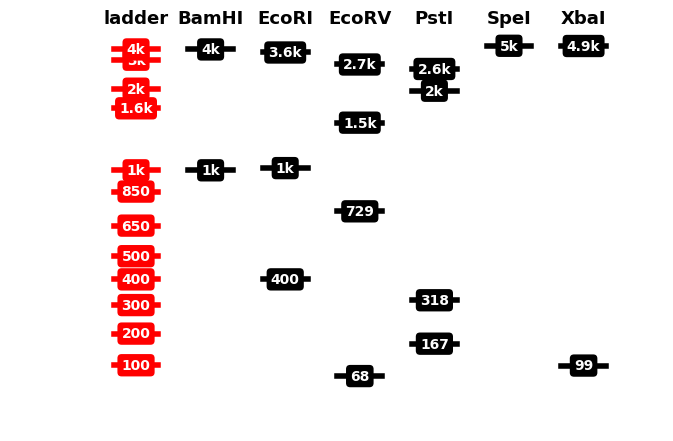
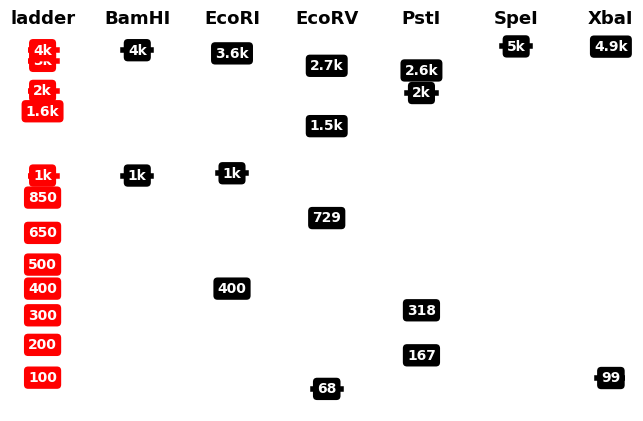
Added tools section

diff --git a/gelsimulator/gel_simulator.py b/gelsimulator/gel_simulator.py
@@ -1,36 +1,5 @@
-from Bio import Restriction
-from Bio.Seq import Seq
-import matplotlib.pyplot as plt
-from scipy.optimize import curve_fit
 import numpy as np
-
-
-def compute_digestion_bands(sequence, enzymes, linear=True):
-    """Return the band sizes [75, 2101, ...] resulting from enzymatic digestion
-
-    Parameters
-    ----------
-
-    sequence
-      Sequence to be digested. Either a string ("ATGC...") or a BioPython `Seq`
-
-    enzymes
-      list of all enzymes placed at the same time in the digestion mix
-      e.g. `["EcoRI", "BamHI"]`
-
-    linear
-      True if the DNA fragment is linearized, False if it is circular
-    """
-    if not isinstance(sequence, Seq):
-        sequence = Seq(sequence)
-    batch = Restriction.RestrictionBatch(enzymes)
-    cut_sites = batch.search(sequence, linear=linear)
-    cut_sites = [0] + sorted(sum(cut_sites.values(), [])) + [len(sequence)]
-    bands_sizes = [end - start for (start, end)
-                   in zip(cut_sites, cut_sites[1:])]
-    if not linear:
-        bands_sizes[0] += bands_sizes.pop()
-    return sorted(bands_sizes)
+from .tools import compute_digestion_bands
 
 
 class GelSimulator:
@@ -43,6 +12,11 @@ class GelSimulator:
     overwritten, leaving you complete freedom to change the way the bands
     and the texts are rendered, simply by sub-classing GelSimulator with
     overwritten methods.
+
+    Parameters
+    ----------
+
+    ladder
 
     Examples
     --------
@@ -67,11 +41,13 @@ class GelSimulator:
 
     def format_ax(self, ax):
         """Preformat the Matplotlib ax: remove the frame, set y-span."""
-        ax.axis("off")
-        y1, y2 = self.ladder.migration_distances_span
+        ax.set_frame_on(False)
+        ax.set_yticks([])
+        ax.set_xticks([])
+        y1, y2 = self.ladder.migration_distances_span()
         ax.set_ylim(-1.1 * y2, 0.1 * y2)
 
-    def format_fragment_size_label(self, band_size):
+    def format_band_size_label(self, band_size):
         """Prettify the fragment size label, e.g. '13278' becomes '13.3k'"""
         if band_size >= 1000:
             kilobases = np.round(band_size / 1000.0, 1)
@@ -80,80 +56,155 @@ class GelSimulator:
         else:
             return "%d" % band_size
 
-    def plot_band_rectangle(self, ax, fragment_size, x_coord, color="k"):
+    def plot_band_rectangle(self, ax, band_size, x_coord, color="k",
+                            width=0.6, band_thickness=4):
         """Plot one band (without label) on the matplotlib ax.
 
         At the moment it just draws a thick horizontal line at the specified
-        location
-        """
-        distance = self.ladder.compute_migration_distance(fragment_size)
-        # patch = FancyBboxPatch([x_coord-0.4, -distance-0.2)
-        ax.plot([x_coord - 0.3, x_coord + 0.3], [-distance, -distance],
-                lw=4, c=color)
+        location.
 
-    def plot_band_size_label(self, ax, fragment_size, x_coord, color="k"):
+        Parameters
+        ----------
+
+        ax
+          A matplotlib ax object
+
+        band_size
+          The size in basepairs of the DNA forming the band
+
+        x_coord
+          The x coordinate at which the pattern will be drawn.
+
+        color
+          Color of the band (can be any matplotlib-compatible color name)
+
+        width
+
+        band_thickness
+          Thickness of the band in pixels. Beware that this means the band will
+          have the same thickness undepending on the size
+
+        """
+        distance = self.ladder.compute_migration_distance(band_size)
+        # patch = FancyBboxPatch([x_coord-0.4, -distance-0.2)
+        ax.plot([x_coord - width/2.0, x_coord + width/2.0],
+                [-distance, -distance],
+                lw=band_thickness, c=color)
+
+    def plot_band_size_label(self, ax, band_size, x_coord,
+                             bg_color="black", label_fontdict=None):
         """Plot the band's label on the matplotlib ax.
 
-        The label is meant to go over the result of `plot_band_rectangle`
+        The label is meant to go over the result of `plot_band_rectangle`.
+
+        Parameters
+        ----------
+
+        ax
+
+        band_size
+          Size in basepairs of the DNA forming the band
+
+        x_coord
+          x coordinate at which to the band is.
+
+        label_fontdict
+          A Matplotlib fontdict, e.g. {"color": "red", "size": 10}, to
+          overwrite the label text defaults (white bold font)
+
+        bg_color
+          Color of the label's background
+
         """
-        size_label = self.format_fragment_size_label(fragment_size)
-        distance = self.ladder.compute_migration_distance(fragment_size)
+        size_label = self.format_band_size_label(band_size)
+        distance = self.ladder.compute_migration_distance(band_size)
+        fontdict = {"color": 'white', 'family': 'sans-serif',
+                    "weight": "bold", "size": 10}
+        if label_fontdict is not None:
+            fontdict.update(label_fontdict)
         ax.text(
             x_coord, -distance, size_label,
             horizontalalignment="center",
             verticalalignment="center",
-            fontdict={"color": "white",
-                      'family': 'sans-serif', "weight": "bold"},
-            fontsize=10,
+            fontdict=fontdict,
             transform=ax.transData,
-            bbox=dict(boxstyle="round", fc=color, lw=0)
+            bbox=dict(boxstyle="round", fc=bg_color, lw=0)
         )
 
-    def plot_band(self, ax, fragment_size, x_coord, color="k",
-                  with_size_label=True):
+    def plot_band(self, ax, band_size, x_coord, color="k",
+                  width=0.3, with_size_labels=True, band_thickness=4,
+                  label_fontdict=None):
         """Plot a band (horizontal line and size label) at the given location
         """
-        self.plot_band_rectangle(ax, fragment_size, x_coord, color=color)
-        if with_size_label:
-            self.plot_band_size_label(ax, fragment_size, x_coord, color=color)
+        self.plot_band_rectangle(ax, band_size, x_coord, color=color,
+                                 width=width, band_thickness=band_thickness)
+        if with_size_labels:
+            self.plot_band_size_label(ax, band_size, x_coord, bg_color=color,
+                                      label_fontdict=label_fontdict)
 
-    def plot_band_pattern_label(self, ax, label, x_coord):
+    def plot_horizontal_line(self, ax, band_size, xmin=0, xmax=1,
+                             color="k", linewidth=1, linestyle="-", **kw):
+        """Plot a horizontal line accross the ax at the given band size.
+
+        Useful for comparing a series of band patterns with some expected
+        band lengths.
+        """
+        y = -self.ladder.compute_migration_distance(band_size)
+        ax.axhline(y, xmin=xmin, xmax=xmax, color=color, linewidth=linewidth,
+                   linestyle=linestyle, **kw)
+
+    def plot_band_pattern_label(self, ax, label, x_coord, tilt_angle=0):
         """Write the label at the top of a band pattern
         """
         ax.text(
-            x_coord, 0.05 * self.ladder.migration_distances_span[1], label,
+            x_coord, 0.05 * self.ladder.migration_distances_span()[1], label,
             horizontalalignment="center",
             verticalalignment="bottom",
             fontdict={"color": "black",
                       'family': 'sans-serif', "weight": "bold"},
             fontsize=13,
+            rotation=tilt_angle,
             transform=ax.transData,
         )
 
+    def color_band_zone(self, ax, x_coord, width=0.3, facecolor=None,
+                        edgecolor="black", linewidth=0.5):
+        ymax = self.ladder.migration_distances_span()[1]
+        ax.fill_between([x_coord-width, x_coord+width], [-ymax, -ymax],
+                        facecolor=facecolor, edgecolor=edgecolor,
+                        linewidth=linewidth)
+
     def plot_bands_pattern(self, ax, bands, label=None, x_coord=1,
-                           color="k"):
+                           color="black", with_size_labels=True, width=0.3,
+                           band_thickness=4, label_tilt_angle=0):
 
         """Plot all bands in a same column and add a label for the pattern
         """
         for band in bands:
-            self.plot_band(ax=ax, fragment_size=band, x_coord=x_coord,
-                           color=color)
+            self.plot_band(ax=ax, band_size=band, x_coord=x_coord,
+                           color=color, with_size_labels=with_size_labels,
+                           width=width, band_thickness=band_thickness)
+
         if label is not None:
-            self.plot_band_pattern_label(ax, label=label, x_coord=x_coord)
+            self.plot_band_pattern_label(ax, label=label, x_coord=x_coord,
+                                         tilt_angle=label_tilt_angle)
 
 
 
-    def plot_ladder(self, ax, label="ladder", x_coord=1, color="r"):
+    def plot_ladder(self, ax, label="ladder", x_coord=1, color="r",
+                    label_tilt_angle=0, with_size_labels=True):
         """Plot this simulator's ladder on a Matplotlib ax.
 
         (usually the first thing you want to plot)
         """
         bands = sorted(self.ladder.bands.keys())
         self.plot_bands_pattern(ax, bands, label=label, x_coord=x_coord,
-                                color=color)
+                                color=color, with_size_labels=with_size_labels,
+                                label_tilt_angle=label_tilt_angle)
 
     def plot_digestion_result(self, ax, sequence, enzymes, linear=True,
-                              label=None, x_coord=1, color="k"):
+                              label=None, x_coord=1, color="k",
+                              with_size_labels=True, label_tilt_angle=0):
         """ Plot the resulting band pattern of a digestion on a Matplotlib ax
 
         Parameters
@@ -185,4 +236,5 @@ class GelSimulator:
         """
         bands = compute_digestion_bands(sequence, enzymes, linear=linear)
         self.plot_bands_pattern(ax, bands, label=label, x_coord=x_coord,
-                                color=color)
+                                color=color, with_size_labels=with_size_labels,
+                                label_tilt_angle=label_tilt_angle)

diff --git a/gelsimulator/tools.py b/gelsimulator/tools.py
@@ -1,0 +1,61 @@
+"""Basic useful functions for computing bands and comparing patterns."""
+
+from Bio.Seq import Seq
+from Bio import Restriction
+
+def compute_digestion_bands(sequence, enzymes, linear=True):
+    """Return the band sizes [75, 2101, ...] resulting from enzymatic digestion
+
+    Parameters
+    ----------
+
+    sequence
+      Sequence to be digested. Either a string ("ATGC...") or a BioPython `Seq`
+
+    enzymes
+      list of all enzymes placed at the same time in the digestion mix
+      e.g. `["EcoRI", "BamHI"]`
+
+    linear
+      True if the DNA fragment is linearized, False if it is circular
+    """
+    if not isinstance(sequence, Seq):
+        sequence = Seq(sequence)
+
+
+    batch = Restriction.RestrictionBatch(enzymes)
+    cut_sites = batch.search(sequence, linear=linear)
+    cut_sites = [0] + sorted(sum(cut_sites.values(), [])) + [len(sequence)]
+    bands_sizes = [end - start for (start, end)
+                   in zip(cut_sites, cut_sites[1:])]
+    if not linear and len(bands_sizes) > 1:
+        bands_sizes[0] += bands_sizes.pop()
+    return sorted(bands_sizes)
+
+
+def bands_are_similar(b1, b2, tolerance):
+    return float(abs(b1 - b2)) / min(b1, b2) < tolerance
+
+
+def merge_bands_in_pattern(bands, tolerance):
+    bands = sorted(bands)
+    new_bands = [bands[0]]
+    for band in bands[1:]:
+        if bands_are_similar(band, new_bands[-1], tolerance):
+            new_bands[-1] = 0.5 * (band + new_bands[-1])
+        else:
+            new_bands.append(band)
+    # print bands, new_bands
+    return new_bands
+
+
+def bands_patterns_are_similar(bands1, bands2,
+                               tolerance=0.3, merge_tolerance=0.2):
+    if (bands1 == []) or (bands2 == []):
+        return False
+    bands1 = merge_bands_in_pattern(bands1, tolerance=merge_tolerance)
+    bands2 = merge_bands_in_pattern(bands2, tolerance=merge_tolerance)
+    return (len(bands1) == len(bands2)) and all(
+        bands_are_similar(b1, b2, tolerance)
+        for b1, b2 in zip(sorted(bands1), sorted(bands2))
+    )

diff --git a/gelsimulator/gel_ladder.py b/gelsimulator/gel_ladder.py
@@ -1,7 +1,6 @@
 import numpy as np
 from scipy.optimize import curve_fit
 
-
 class GelLadder:
     """Class to represent gel ladders. These ladders serve as a scale for
     plotting any other gel simulation."""
@@ -16,7 +15,6 @@ class GelLadder:
         This allows to then predict how far new bands will migrate with respect
         to this ladder.
         """
-
         sizes, distances = [
             np.array(a)
             for a in
@@ -44,10 +42,10 @@ class GelLadder:
         """
         return self._migration_predictor(band_size)
 
-    @property
+
     def migration_distances_span(self):
-        min_band = min(self.bands.values())
-        max_band = max(self.bands.values())
+        min_band = min(self.bands.keys())
+        max_band = max(self.bands.keys())
         return [self.compute_migration_distance(band)
                 for band in (max_band, min_band)]
 

diff --git a/gelsimulator/__init__.py b/gelsimulator/__init__.py
@@ -1,10 +1,9 @@
 """ gelsimulator/__init__.py """
 
-__all__ = ("GelSimulator", "GelLadder",
-           "compute_digestion_bands",
-           "LADDER_100_to_4k")
-
-from .gel_simulator import GelSimulator, compute_digestion_bands
+from .gel_simulator import GelSimulator
 from .gel_ladder import GelLadder, LADDER_100_to_4k
-
+from .tools import (merge_bands_in_pattern,
+                    bands_are_similar,
+                    bands_patterns_are_similar,
+                    compute_digestion_bands)
 from .version import __version__
